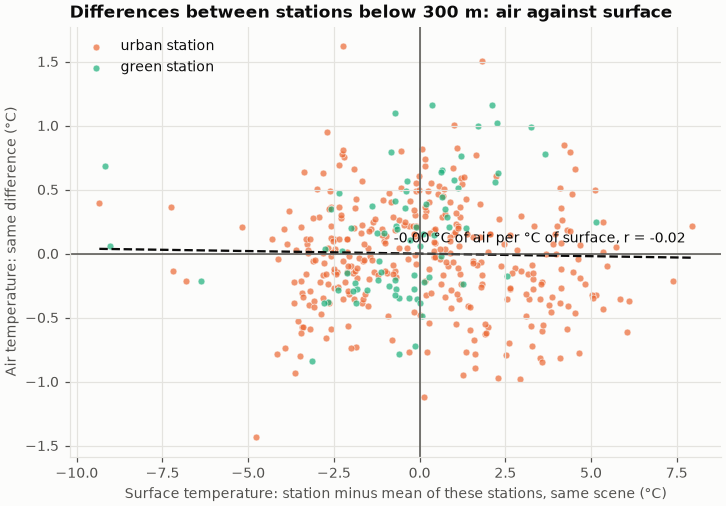
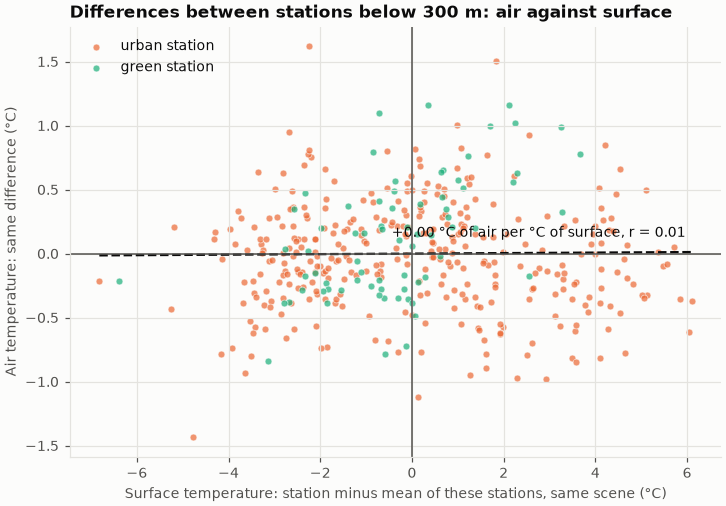
Station results with suspect points removed; add Limits note on surface vs air

diff --git a/README.md b/README.md
@@ -149,19 +149,19 @@ air-temperature differences, which is what people feel and what the model will h
 surface are not measurably warmer in the air at 2 m. The park results above are differences
 in surface temperature and should be reported as such.
 
-- **The surface is much hotter than the air:** by 9.6 °C in the median (middle half 7.0 to
-  12.0 °C) over 494 station–overpass pairs, from +2.8 °C at the forested Jubiläumswarte to
+- **The surface is much hotter than the air:** by 9.8 °C in the median (middle half 7.1 to
+  12.1 °C) over 485 station–overpass pairs, from +3.0 °C at the forested Jubiläumswarte to
   +14.4 °C at Innere Stadt.
 - **Between the six stations below 300 m, the surface differs a lot and the air hardly at
-  all.** Their median surface temperatures span 6.3 °C (34.3 °C at Mariabrunn to 40.6 °C at
+  all.** Their median surface temperatures span 6.1 °C (34.5 °C at Mariabrunn to 40.6 °C at
   Innere Stadt); their median air temperatures span about 1 °C, and Innere Stadt, the hottest
   surface, has the coolest air of the six. Scene by scene, a station's surface deviation from
   the group says nothing about its air deviation: slope 0.00 °C of air per °C of surface,
-  r = −0.02.
+  r = 0.01.
 - **The one apparent link is altitude.** With the Jubiläumswarte (450 m) included, the slope
-  is 0.10 and r = 0.58. But its air is about 1.6 °C cooler than at the other stations, which
+  is 0.10 and r = 0.60. But its air is about 1.7 °C cooler than at the other stations, which
   is what 250 m of height gives on its own.
-- **Day to day the two do move together** at every station (r = 0.56 to 0.77 over scenes): a
+- **Day to day the two do move together** at every station (r = 0.68 to 0.92 over scenes): a
   hot day is hot at the surface and in the air. That is weather, not a difference between
   places.
 
@@ -173,11 +173,28 @@ in surface temperature and should be reported as such.
 |---|---:|---:|---:|---:|---:|---:|
 | Innere Stadt | 177 m | 6 % | 74 | 26.4 °C | 40.6 °C | +14.4 °C |
 | Donaufeld | 160 m | 16 % | 74 | 27.4 °C | 37.3 °C | +10.9 °C |
-| Hohe Warte | 198 m | 26 % | 75 | 26.9 °C | 34.6 °C | +8.2 °C |
+| Hohe Warte | 198 m | 26 % | 74 | 26.9 °C | 34.6 °C | +8.2 °C |
 | Unterlaa | 200 m | 33 % | 72 | 26.8 °C | 38.4 °C | +11.6 °C |
-| Mariabrunn | 225 m | 41 % | 52 | 27.0 °C | 34.3 °C | +7.8 °C |
-| Stammersdorf | 191 m | 65 % | 75 | 26.9 °C | 36.6 °C | +10.4 °C |
-| Jubiläumswarte | 450 m | 97 % | 72 | 25.3 °C | 27.9 °C | +2.8 °C |
+| Mariabrunn | 225 m | 41 % | 50 | 26.8 °C | 34.5 °C | +7.9 °C |
+| Stammersdorf | 191 m | 65 % | 73 | 26.7 °C | 36.6 °C | +10.5 °C |
+| Jubiläumswarte | 450 m | 97 % | 68 | 25.1 °C | 27.9 °C | +3.0 °C |
+
+**Suspect points removed.** 9 of 494 station–overpass pairs had a surface colder than the air
+(4 at the Jubiläumswarte, 2 each at Mariabrunn and Stammersdorf, 1 at Hohe Warte). In late
+morning in summer that is most likely cloud or cloud shadow the Landsat mask missed, so they
+are left out. The conclusion does not depend on them: with all 494 pairs the slope among the
+low stations was also 0.00 (r = −0.02) and the median gap 9.6 °C.
+
+### Limits: what the model will and will not predict
+
+- The model in the third part of the plan predicts **land surface temperature**, as Landsat
+  sees it in the late morning.
+- The comparison above shows that surface-temperature differences between places **cannot be
+  read as air-temperature differences**. A scenario result such as "this car park becomes
+  4 °C cooler as a park" is a statement about the ground, not about what a person feels.
+- Air temperature would need other data: night-time thermal scenes (ECOSTRESS, which needs a
+  free NASA account that the project does not have for now) or measurements from sensors
+  inside the neighbourhoods.
 
 ### What this does not show
 
@@ -202,6 +219,7 @@ in surface temperature and should be reported as such.
 2. Loads the Vienna stations of GeoSphere Austria's 10-minute dataset (`klima-v2-10min`,
    open, no key, CC BY 4.0) and interpolates air temperature at 2 m to the minute of each
    overpass. Three stations are listed under two ids; each station is counted once.
+   Pairs where the surface reads colder than the air are dropped as likely cloud.
 3. Reads the Landsat surface temperature at the station's pixel and as the mean within 300 m.
    The 300 m value is the main one, since one thermal measurement is 100 m wide; the single
    pixel gives the same picture.
